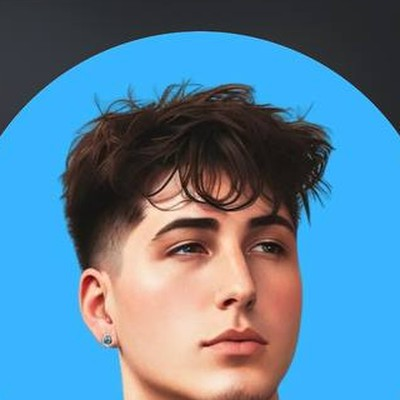
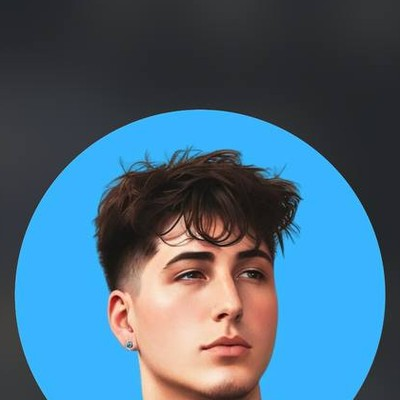
Fix founder photo crops - faces properly centered

diff --git a/index.html b/index.html
@@ -2050,7 +2050,7 @@
                     <div class="about-card">
                         <div class="founder-row">
                             <div class="founder">
-                                <div class="founder-avatar"><img src="matthew.jpg" alt="Matthew Gonzalez - Co-Founder of Loft" style="object-position: center 35%;"></div>
+                                <div class="founder-avatar"><img src="matthew.jpg" alt="Matthew Gonzalez - Co-Founder of Loft"></div>
                                 <h4>Matthew Gonzalez</h4>
                                 <p data-i18n="founder1_role">Co-Founder / Creative Director</p>
                             </div>
